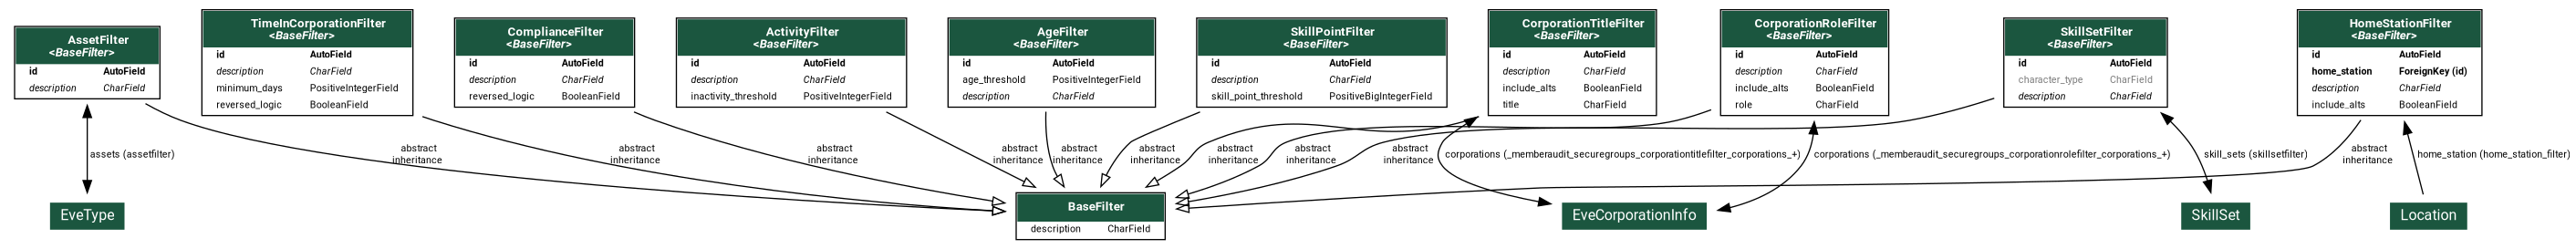
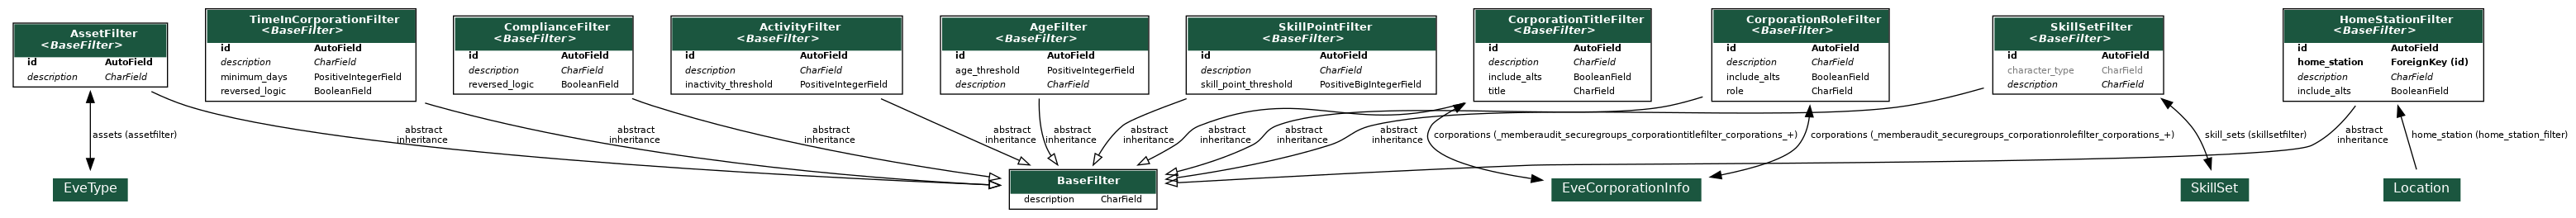
ci: update pipeline

diff --git a/README.md b/README.md
@@ -1,58 +1,39 @@
 # Member Audit Secure Groups Integration for Alliance Auth<a name="member-audit-secure-groups-integration-for-alliance-auth"></a>
 
-[![Version](https://img.shields.io/pypi/v/aa-ma-securegroups?label=release)](https://pypi.org/project/aa-ma-securegroups/)
-[![License](https://img.shields.io/github/license/ppfeufer/aa-ma-securegroups)](https://github.com/ppfeufer/aa-ma-securegroups/blob/master/LICENSE)
-[![Python](https://img.shields.io/pypi/pyversions/aa-ma-securegroups)](https://pypi.org/project/aa-ma-securegroups/)
-[![Django](https://img.shields.io/pypi/djversions/aa-ma-securegroups?label=django)](https://pypi.org/project/aa-ma-securegroups/)
-![pre-commit](https://img.shields.io/badge/pre--commit-enabled-brightgreen?logo=pre-commit&logoColor=white)
-[![pre-commit.ci status](https://results.pre-commit.ci/badge/github/ppfeufer/aa-ma-securegroups/master.svg)](https://results.pre-commit.ci/latest/github/ppfeufer/aa-ma-securegroups/master)
-[![Code Style: black](https://img.shields.io/badge/code%20style-black-000000.svg)](http://black.readthedocs.io/en/latest/)
-[![Discord](https://img.shields.io/discord/399006117012832262?label=discord)](https://discord.gg/fjnHAmk)
-[![Checks](https://github.com/ppfeufer/aa-ma-securegroups/actions/workflows/automated-checks.yml/badge.svg)](https://github.com/ppfeufer/aa-ma-securegroups/actions/workflows/automated-checks.yml)
-[![codecov](https://codecov.io/gh/ppfeufer/aa-ma-securegroups/branch/master/graph/badge.svg)](https://codecov.io/gh/ppfeufer/aa-ma-securegroups)
-[![Contributor Covenant](https://img.shields.io/badge/Contributor%20Covenant-2.1-4baaaa.svg)](https://github.com/ppfeufer/aa-ma-securegroups/blob/master/CODE_OF_CONDUCT.md)
-
-[![ko-fi](https://ko-fi.com/img/githubbutton_sm.svg)](https://ko-fi.com/N4N8CL1BY)
-
 This is an integration between [Member Audit](https://gitlab.com/ErikKalkoken/aa-memberaudit) and [Secure Groups](https://github.com/pvyParts/allianceauth-secure-groups) for [Alliance Auth](https://gitlab.com/allianceauth/allianceauth) (AA).
+
+![release](https://img.shields.io/pypi/v/aa-memberaudit-securegroups?label=release)
+![License](https://img.shields.io/badge/license-GPL-green)
+![python](https://img.shields.io/pypi/pyversions/aa-memberaudit-securegroups)
+![django](https://img.shields.io/pypi/djversions/aa-memberaudit-securegroups?label=django)
+![pre-commit](https://img.shields.io/badge/pre--commit-enabled-brightgreen?logo=pre-commit&logoColor=white)
+![Code style: black](https://img.shields.io/badge/code%20style-black-000000.svg)
 
 ______________________________________________________________________
 
 <!-- mdformat-toc start --slug=gitlab --maxlevel=6 --minlevel=2 -->
 
-- [What's the difference to Member Audit Securegroups](#whats-the-difference-to-member-audit-securegroups)
+- [Important](#important)
 - [Features](#features)
 - [Installation](#installation)
   - [Requirements](#requirements)
-  - [Step 0.5: Migrating from Member Audit Securegroups](#step-05-migrating-from-member-audit-securegroups)
   - [Step 1: Install the Package](#step-1-install-the-package)
   - [Step 2: Config](#step-2-config)
   - [Step 3: Finalize App Installation](#step-3-finalize-app-installation)
 - [Filters](#filters)
 - [Changelog](#changelog)
-- [Contributing](#contributing)
 
 <!-- mdformat-toc end -->
 
 ______________________________________________________________________
 
-## What's the difference to Member Audit Securegroups<a name="whats-the-difference-to-member-audit-securegroups"></a>
+## Important<a name="important"></a>
 
-Pretty much nothing.
+**This project has been moved to [GitHub](https://github.com/ppfeufer/aa-ma-securegroups).**
 
-I took over Member Audit Securegroups in August 2022 from the original developer who
-is no longer actively maintaining the app. After more than a year and the fact that
-I have a distinct dislike for Gitlab, and the original developer didn't want to transfer
-the PyPi repository to me, I decided it is time to make an actual fork of the app
-which is now again actively maintained by me.
+For migrating, please read the [migration guide](https://github.com/ppfeufer/aa-ma-securegroups#step-05-migrating-from-member-audit-securegroups) on GitHub.
 
-This app is fully compatible with the original, all that has changed is the `pip`
-name from `aa-memberaudit-securegroups` to `aa-ma-securegroups`, and if
-you had the original app installed, it is really easy to switch to this one, see
-[Step 0.5: Migrating from Member Audit Securegroups](#step-05-migrating-from-member-audit-securegroups).
-
-Thanks to [@rcmurphy](https://github.com/rcmurphy) for all her work on the [original
-app](https://gitlab.com/eclipse-expeditions/aa-memberaudit-securegroups)!
+Development here will be discontinued.
 
 ## Features<a name="features"></a>
 
@@ -68,43 +49,15 @@ app](https://gitlab.com/eclipse-expeditions/aa-memberaudit-securegroups)!
 
 ## Installation<a name="installation"></a>
 
-> [!NOTE]
->
-> **Member Audit Secure Groups Integration >= 1.0.0 needs at least Alliance Auth v4.0.0!**
->
-> Please make sure to update your Alliance Auth instance _before_ you install this
-> module or update to the latest version, otherwise an update to Alliance Auth will
-> be pulled in unsupervised.
->
-> The last version compatible with Alliance Auth v3 is `0.6.1`.
-
 ### Requirements<a name="requirements"></a>
 
-This integration needs [Member Audit](https://gitlab.com/ErikKalkoken/aa-memberaudit)
-and [Secure Groups](https://github.com/pvyParts/allianceauth-secure-groups) to
-function. Please make sure they are installed before continuing.
-
-### Step 0.5: Migrating from Member Audit Securegroups<a name="step-05-migrating-from-member-audit-securegroups"></a>
-
-In case you have the original app installed, you need to uninstall it before
-you can continue. To do so, simply run:
-
-```shell
-pip uninstall aa-memberaudit-securegroups
-```
-
-That's all, no need to worry about the DB related stuff, this app is fully
-compatible with it and will use the DB tables from the original app. Now feel free
-to continue with the installation.
+This integration needs [Member Audit](https://gitlab.com/ErikKalkoken/aa-memberaudit) and [Secure Groups](https://github.com/pvyParts/allianceauth-secure-groups) to function. Please make sure they are installed before continuing.
 
 ### Step 1: Install the Package<a name="step-1-install-the-package"></a>
 
-Make sure you are in the virtual environment (venv) of your Alliance Auth
-installation. Then install the newest release from PyPI:
+Make sure you are in the virtual environment (venv) of your Alliance Auth installation. Then install the newest release from PyPI:
 
-```shell
-pip install aa-ma-securegroups
-```
+`pip install aa-memberaudit-securegroups`
 
 ### Step 2: Config<a name="step-2-config"></a>
 
@@ -114,7 +67,7 @@ Add `memberaudit_securegroups` to your `INSTALLED_APPS`.
 
 Run migrations:
 
-```shell
+```bash
 python manage.py migrate
 ```
 
@@ -122,30 +75,18 @@ Restart your supervisor services for Auth
 
 ## Filters<a name="filters"></a>
 
-| Filter Name                | Matches if...                                                                    | Reversed Logic Possible                                                               |
-| -------------------------- | -------------------------------------------------------------------------------- | ------------------------------------------------------------------------------------- |
-| Activity Filter            | User has *at least one* character active within the last X days                  | No                                                                                    |
-| Asset Filter               | User has *at least one* character with *any of* the assets defined               | No                                                                                    |
-| Character Age Filter       | User has *at least one* character over X days old                                | No                                                                                    |
-| Compliance Filter          | User has *all* characters registered on Member Audit                             | Yes , if reversed, user has *at least one* character *not* registered on Member Audit |
-| Corporation Role Filter    | User has a character (main or alt) in a certain corporation with a certain role  | No                                                                                    |
-| Corporation Title Filter   | User has a character (main or alt) in a certain corporation with a certain title | No                                                                                    |
-| Skill Point Filter         | User has *at least one* character with at least X skill points                   | No                                                                                    |
-| Skill Set Filter           | User has *at least one* character with *any of* the selected skill sets          | No                                                                                    |
-| Time in Corporation Filter | User's main character is *at least* more than X days in their corpration         | Yes, if reversed, user's main character is *at most* X days in their corpration       |
+| Filter Name | Matches if... |
+| -- | -- |
+| Activity | User has *at least one* character active within the last X days |
+| Age | User has *at least one* character over X days old |
+| Asset | User has *at least one* character with *any of* the assets defined |
+| Compliance | User has *all* characters registered on Member Audit |
+| Skill Point | User has *at least one* character with at least X skill points |
+| Skill Set | User has *at least one* character with *any of* the selected skill sets |
+| Role | User has a character (main or alt) in a certain corporation with a certain role |
+| Title | User has a character (main or alt) in a certain corporation with a certain title |
+| Time in Corporation | User has a character (main or alt) in a certain corporation with a certain title |
 
 ## Changelog<a name="changelog"></a>
 
-See [CHANGELOG.md]
-
-## Contributing<a name="contributing"></a>
-
-Do you want to contribute to this project? That's cool!
-
-Please make sure to read the [Contribution Guidelines].\
-(I promise, it's not much, just some basics)
-
-<!-- Inline links -->
-
-[changelog.md]: https://github.com/ppfeufer/aa-ma-securegroups/blob/master/CHANGELOG.md
-[contribution guidelines]: https://github.com/ppfeufer/aa-ma-securegroups/blob/master/CONTRIBUTING.md "Contribution Guidelines"
+See [CHANGELOG.md](https://gitlab.com/eclipse-expeditions/aa-memberaudit-securegroups/-/blob/master/CHANGELOG.md)